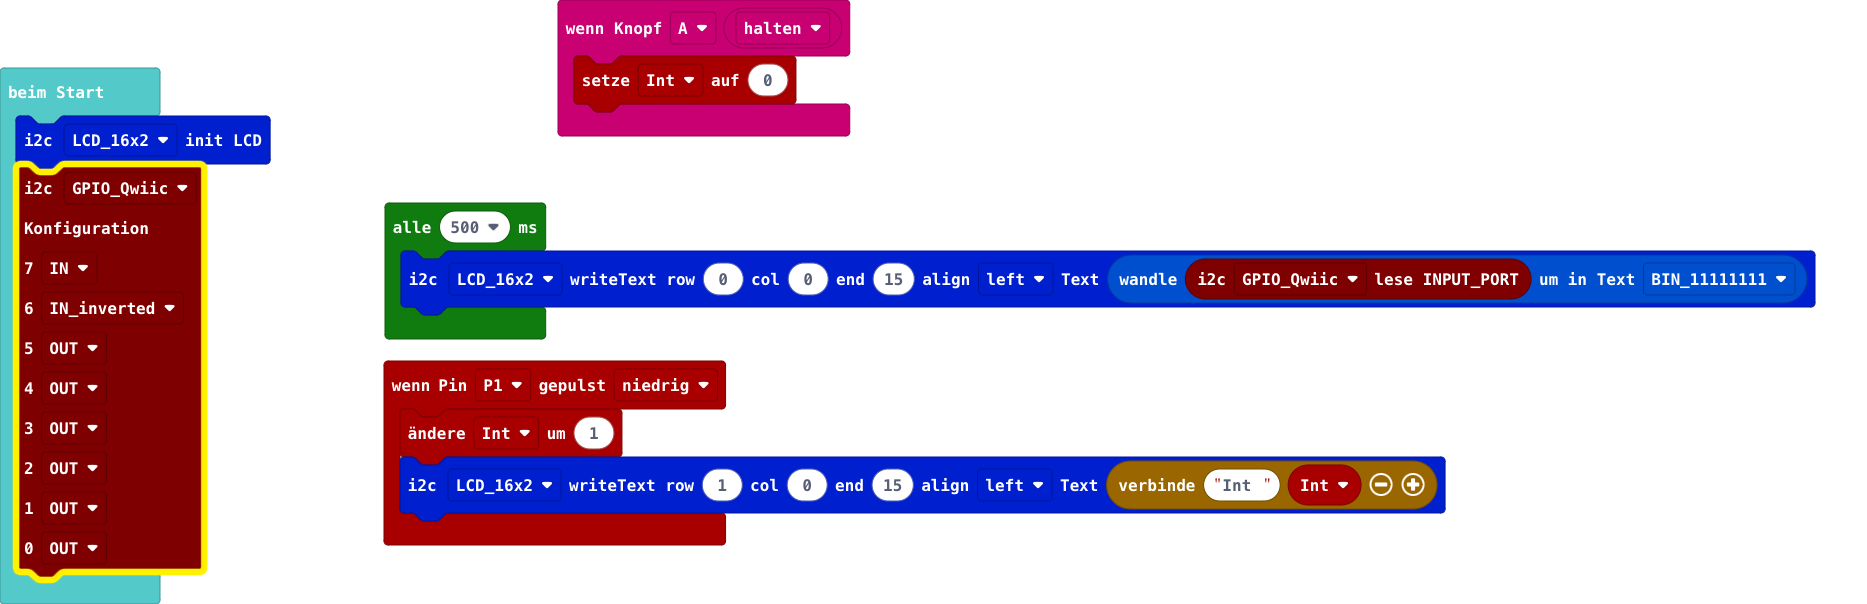
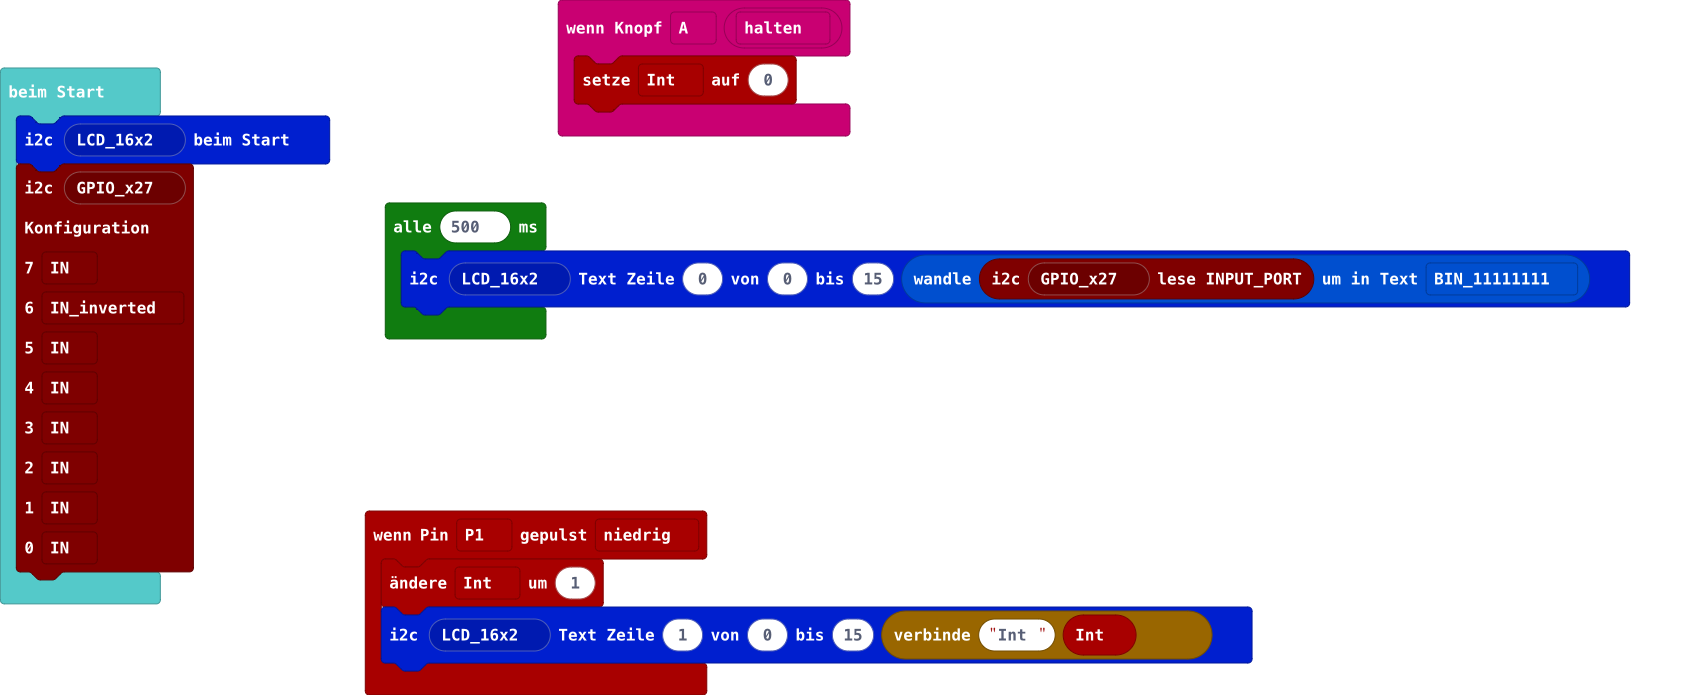
Aktualisiere pxt.json, main.blocks, main.ts

diff --git a/main.ts b/main.ts
@@ -1,23 +1,23 @@
 pins.onPulsed(DigitalPin.P1, PulseValue.Low, function () {
     Int += 1
-    lcd16x2rgb.writeText(lcd16x2rgb.eADDR_LCD.LCD_16x2, 1, 0, 15, lcd16x2rgb.eAlign.left, "Int " + Int)
+    lcd16x2rgb.writeText(lcd16x2rgb.lcd16x2_eADDR(lcd16x2rgb.eADDR_LCD.LCD_16x2), 1, 0, 15, "Int " + Int)
 })
 input.onButtonEvent(Button.A, ButtonEvent.Hold, function () {
     Int = 0
 })
 let Int = 0
-lcd16x2rgb.initLCD(lcd16x2rgb.eADDR_LCD.LCD_16x2)
+lcd16x2rgb.initLCD(lcd16x2rgb.lcd16x2_eADDR(lcd16x2rgb.eADDR_LCD.LCD_16x2))
 qwiicgpio.setMode(
-qwiicgpio.eADDR.GPIO_Qwiic,
+qwiicgpio.qwiicgpio_eADDR(qwiicgpio.eADDR.GPIO_x27),
 qwiicgpio.eIO.IN,
 qwiicgpio.eIO.IN_inverted,
-qwiicgpio.eIO.OUT,
-qwiicgpio.eIO.OUT,
-qwiicgpio.eIO.OUT,
-qwiicgpio.eIO.OUT,
-qwiicgpio.eIO.OUT,
-qwiicgpio.eIO.OUT
+qwiicgpio.eIO.IN,
+qwiicgpio.eIO.IN,
+qwiicgpio.eIO.IN,
+qwiicgpio.eIO.IN,
+qwiicgpio.eIO.IN,
+qwiicgpio.eIO.IN
 )
 loops.everyInterval(500, function () {
-    lcd16x2rgb.writeText(lcd16x2rgb.eADDR_LCD.LCD_16x2, 0, 0, 15, lcd16x2rgb.eAlign.left, bit.formatNumber(qwiicgpio.readINPUT_PORT(qwiicgpio.eADDR.GPIO_Qwiic), bit.eLength.BIN_11111111))
+    lcd16x2rgb.writeText(lcd16x2rgb.lcd16x2_eADDR(lcd16x2rgb.eADDR_LCD.LCD_16x2), 0, 0, 15, bit.formatNumber(qwiicgpio.readINPUT_PORT(qwiicgpio.qwiicgpio_eADDR(qwiicgpio.eADDR.GPIO_x27)), bit.eLength.BIN_11111111))
 })
